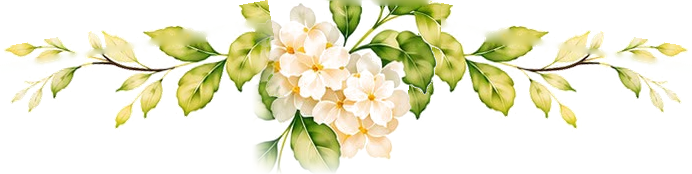
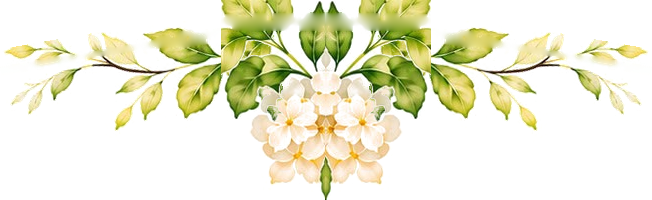
feat: drop language screen, complete home bouquet, simplify RSVP
- Remove the language-choice landing page; visitors go straight to the
  passcode (language buttons still switch at any time).
- Home flower: rebuilt as a balanced, complete bouquet (the invite
  cluster's fuller half mirrored) with the leafy branches either side.
- RSVP: remove Maybe; people with a final answer show only 'Already
  RSVPed' with no choices and no hint of their answer. Older 'maybe'
  rows stay answerable. README updated; links re-stamped.

diff --git a/js/rsvp.js b/js/rsvp.js
@@ -3,12 +3,12 @@
  *  1. Guest types their name (#find-form). The Apps Script looks it up in the
  *     Google Sheet's "Guests" tab and returns their party: { name, members: [...] }.
  *  2. #rsvp-form shows the party name, how many people are in it, and for each
- *     person: Joyfully accepts / Regretfully declines / Maybe, nothing preselected.
- *     Guests answer for whoever they want; anyone left blank isn't sent and can be
- *     answered on a later visit. Everyone gets the choices, whether or not they
- *     already replied; the form doesn't reveal earlier answers. Answers go as
- *     "att:<English full name>" = "yes" | "no" | "maybe", so they match by name, not
- *     position. At least one is needed.
+ *     person: Joyfully accepts / Regretfully declines, nothing preselected. Guests
+ *     answer for whoever they want; anyone left blank isn't sent and can be answered
+ *     on a later visit. Someone who already replied shows "Already RSVPed" with no
+ *     choices, and their answer is never shown. Answers go as
+ *     "att:<English full name>" = "yes" | "no", so they match by name, not position.
+ *     At least one is needed.
  *  3. The server saves everyone picked except people who already have a final yes/no,
  *     and returns those as `skipped`. The message then thanks them for whoever was
  *     saved and names who already RSVPed, e.g. "Thank you! We received the response for
@@ -27,14 +27,16 @@
   const rsvpForm = document.getElementById("rsvp-form");
   const resultBox = document.getElementById("rsvp-result");
   // After a lookup: { name, members: [English names], display: [names in the alphabet the
-  // guest searched with] }. (The server also sends `answered`; the form doesn't show it.)
+  // guest searched with], answered: { English name: "yes"|"no"|"maybe" } }. Only whether
+  // someone answered is used; the answer itself is never shown.
+  // ("maybe" can only come from older replies; it isn't final, so they get choices again.)
   let party = null;
 
   /** Error codes the server can return for a lookup, mapped to message keys. */
   const LOOKUP_ERRORS = { not_found: "rsvp.notFound", multiple: "rsvp.multiple", already_replied: "rsvp.alreadyReplied" };
 
   /** The answers a guest can give, in display order, with their label keys. */
-  const ANSWER_KEYS = { yes: "rsvp.yes", no: "rsvp.no", maybe: "rsvp.maybe" };
+  const ANSWER_KEYS = { yes: "rsvp.yes", no: "rsvp.no" };
 
   function show(form) {
     findForm.hidden = form !== findForm;
@@ -50,9 +52,16 @@
     return span;
   }
 
+  /** True if this person already has a final answer (yes/no) on file. */
+  function alreadyAnswered(name) {
+    const a = (party.answered || {})[name];
+    return a === "yes" || a === "no";
+  }
+
   /**
-   * One fieldset per person: Joyfully accepts / Regretfully declines / Maybe, nothing
-   * preselected, so guests can answer for just the people they want. `name` is the
+   * One fieldset per person: Joyfully accepts / Regretfully declines, nothing preselected,
+   * so guests can answer for just the people they want. Someone who already replied
+   * shows only "Already RSVPed" (no choices, no hint of their answer). `name` is the
    * English name (sent with the answer); the legend shows the name in the guest's alphabet.
    */
   function memberFieldset(name, i) {
@@ -60,6 +69,13 @@
     const legend = document.createElement("legend");
     legend.textContent = (party.display || [])[i] || name;
     fieldset.append(legend);
+    if (alreadyAnswered(name)) {
+      const note = document.createElement("p");
+      note.className = "muted";
+      note.append(label("rsvp.alreadyRsvped"));
+      fieldset.append(note);
+      return fieldset;
+    }
     Object.entries(ANSWER_KEYS).forEach(([value, key]) => {
       const wrap = document.createElement("label");
       const radio = document.createElement("input");

diff --git a/index.html b/index.html
@@ -31,14 +31,10 @@
   <link rel="preconnect" href="https://fonts.googleapis.com">
   <link rel="preconnect" href="https://fonts.gstatic.com" crossorigin>
   <link href="https://fonts.googleapis.com/css2?family=Cormorant+Garamond:ital,wght@0,400;0,500;0,600;1,400;1,500&family=Great+Vibes&family=Frank+Ruhl+Libre:wght@400;500&family=Marck+Script&display=swap" rel="stylesheet">
-  <link rel="stylesheet" href="css/style.css?v=9735582f">
+  <link rel="stylesheet" href="css/style.css?v=6f05be68">
 </head>
-<!--
-  "choose-lang" shows the language screen first; app.js removes it once a language
-  has been chosen (or was chosen on an earlier visit).
-  "locked" hides the site until the passcode is entered (js/gate.js).
--->
-<body class="choose-lang locked">
+<!-- "locked" hides the site until the passcode is entered (js/gate.js). -->
+<body class="locked">
   <header class="site-header">
     <div class="lang-switch" role="group" aria-label="Language">
       <button type="button" data-lang="en">English</button>
@@ -58,29 +54,6 @@
       <a href="#todo" data-i18n="nav.todo"></a>
     </nav>
   </header>
-
-  <!--
-    Language screen, shown first while the body has class "choose-lang".
-    Written in all three languages, since no language has been picked yet.
-  -->
-  <section id="lang-picker" class="lang-picker" aria-labelledby="lang-picker-title">
-    <img class="sprig" src="images/flower.png" alt="" width="692" height="174">
-    <h2 id="lang-picker-title" class="lang-picker-welcome">
-      <span lang="en">Welcome</span>
-      <span lang="he" dir="rtl">ברוכים הבאים</span>
-      <span lang="ru">Добро пожаловать</span>
-    </h2>
-    <p class="lang-picker-ask">
-      <span lang="en">Please choose a language</span>
-      <span lang="he" dir="rtl">נא לבחור שפה</span>
-      <span lang="ru">Пожалуйста, выберите язык</span>
-    </p>
-    <div class="lang-picker-buttons">
-      <button type="button" class="btn" data-pick-lang="en" lang="en">English</button>
-      <button type="button" class="btn" data-pick-lang="he" lang="he">עברית</button>
-      <button type="button" class="btn" data-pick-lang="ru" lang="ru">Русский</button>
-    </div>
-  </section>
 
   <!-- Passcode screen, shown while the body has class "locked". -->
   <section id="gate" class="gate">
@@ -102,7 +75,7 @@
       <p class="eyebrow" data-i18n="home.eyebrow"></p>
       <p class="eyebrow eyebrow-sub" data-i18n="home.eyebrowSub"></p>
       <!-- Horizontal garland built from the Save the Date's corner art: flowers centred, leafy branches either side. -->
-      <img class="sprig" src="images/flower.png" alt="" width="692" height="174">
+      <img class="sprig" src="images/flower.png" alt="" width="652" height="200">
       <p class="date-line" data-i18n="home.date"></p>
       <p class="venue-line" data-i18n="home.venue"></p>
 
@@ -244,11 +217,11 @@
   </footer>
 
   <script src="js/config.js?v=8f9a2d6b"></script>
-  <script src="js/lang/en.js?v=160fa520"></script>
-  <script src="js/lang/he.js?v=80d46590"></script>
-  <script src="js/lang/ru.js?v=723e1b14"></script>
-  <script src="js/app.js?v=556d0120"></script>
+  <script src="js/lang/en.js?v=8ec76602"></script>
+  <script src="js/lang/he.js?v=85e45419"></script>
+  <script src="js/lang/ru.js?v=50e48743"></script>
+  <script src="js/app.js?v=94acb03d"></script>
   <script src="js/gate.js?v=3899f6ee"></script>
-  <script src="js/rsvp.js?v=a6db0ee4"></script>
+  <script src="js/rsvp.js?v=28f3c522"></script>
 </body>
 </html>

diff --git a/js/app.js b/js/app.js
@@ -33,8 +33,7 @@
 
   /**
    * Shows the site in `code` ("en" | "he" | "ru"). `remember` saves it as the guest's
-   * choice; the first-load default is not saved, so the language screen still appears
-   * until the guest actually picks a language.
+   * choice (the language buttons); the first-load default isn't saved.
    */
   function setLang(code, remember) {
     if (!LANGS[code]) code = config.DEFAULT_LANG;
@@ -52,12 +51,6 @@
     try { localStorage.setItem(LANG_KEY, code); } catch (e) { /* storage blocked: language just won't be remembered */ }
   }
 
-  /** Language screen: picking a language applies and remembers it, then reveals the passcode screen (or the site). */
-  function pickLang(code) {
-    setLang(code, true);
-    document.body.classList.remove("choose-lang");
-    window.scrollTo(0, 0);
-  }
 
   /** Q&A list: each item is { q, a } in the language file. */
   function renderFaq() {
@@ -182,7 +175,6 @@
   });
 
   document.querySelectorAll("[data-lang]").forEach((b) => b.addEventListener("click", () => setLang(b.dataset.lang, true)));
-  document.querySelectorAll("[data-pick-lang]").forEach((b) => b.addEventListener("click", () => pickLang(b.dataset.pickLang)));
 
   document.querySelector(".menu-toggle").addEventListener("click", (e) => {
     const nav = document.getElementById("site-nav");
@@ -193,10 +185,7 @@
   document.getElementById("diet-form").addEventListener("submit", submitDiet);
   window.addEventListener("hashchange", showTab);
 
-  // A language chosen on an earlier visit skips the language screen.
-  const chosen = savedLang();
-  setLang(chosen || config.DEFAULT_LANG, false);
-  if (chosen) document.body.classList.remove("choose-lang");
+  setLang(savedLang() || config.DEFAULT_LANG, false);
   showTab();
   tickCountdown();
   setInterval(tickCountdown, 1000);

diff --git a/css/style.css b/css/style.css
@@ -108,23 +108,6 @@ body:not(.locked) .gate { display: none; }
 /* Registry: centred text with the Zola button underneath. */
 .card.registry-card { text-align: center; } /* ".card.registry-card" outranks the general .card text-align */
 
-/* ---------- Language screen (shown first; app.js removes body.choose-lang) ---------- */
-/* While choosing, show only the header names and this screen. */
-body.choose-lang .gate, body.choose-lang main, body.choose-lang .site-nav,
-body.choose-lang .menu-toggle, body.choose-lang .site-footer,
-body.choose-lang .lang-switch, body.choose-lang .header-meta { display: none; }
-body:not(.choose-lang) .lang-picker { display: none; }
-.lang-picker { max-width: 560px; margin: 1.5rem auto 4rem; padding: 0 1rem; text-align: center; }
-.lang-picker-welcome { display: grid; gap: 0.2rem; margin: 0.5rem 0 1rem; text-transform: none; letter-spacing: 0.08em; }
-.lang-picker-welcome span:first-child { font-size: 2rem; }
-.lang-picker-welcome span { font-size: 1.5rem; }
-.lang-picker-welcome [lang="he"] { font-family: "Frank Ruhl Libre", serif; letter-spacing: normal; }
-.lang-picker-ask { display: grid; gap: 0.1rem; color: var(--muted); font-style: italic; margin: 0 0 1.5rem; }
-.lang-picker-ask [lang="he"] { font-family: "Frank Ruhl Libre", serif; }
-.lang-picker-buttons { display: grid; gap: 0.8rem; max-width: 280px; margin: 0 auto; }
-.lang-picker-buttons .btn { width: 100%; text-transform: none; letter-spacing: 0.06em; font-size: 1.25rem; }
-.lang-picker-buttons [lang="he"] { font-family: "Frank Ruhl Libre", serif; letter-spacing: normal; }
-
 /* ---------- Sections ---------- */
 main { max-width: 760px; margin: 0 auto; padding: 1.5rem 1rem 3rem; }
 /* Home tab text one weight step heavier (400 -> 500, about 25%). Script fonts have one weight and are unaffected. */

diff --git a/js/lang/ru.js b/js/lang/ru.js
@@ -53,7 +53,7 @@ window.LANG.ru = {
     email: "Эл. почта (необязательно)",
     yes: "С радостью приду",
     no: "К сожалению, не смогу",
-    maybe: "Возможно",
+    alreadyRsvped: "Уже ответил(а)",
     message: "Пара слов для молодожёнов (необязательно)",
     submit: "Отправить",
   },

diff --git a/js/lang/he.js b/js/lang/he.js
@@ -53,7 +53,7 @@ window.LANG.he = {
     email: "אימייל (לא חובה)",
     yes: "מגיע/ה בשמחה",
     no: "לצערי לא אוכל להגיע",
-    maybe: "אולי",
+    alreadyRsvped: "כבר אישר/ה הגעה",
     message: "מילה לזוג (לא חובה)",
     submit: "שליחת אישור",
   },

diff --git a/js/lang/en.js b/js/lang/en.js
@@ -54,7 +54,7 @@ window.LANG.en = {
     email: "Email (optional)",
     yes: "Joyfully accepts",
     no: "Regretfully declines",
-    maybe: "Maybe",
+    alreadyRsvped: "Already RSVPed",
     message: "A note for the couple (optional)",
     submit: "Send RSVP",
   },

diff --git a/README.md b/README.md
@@ -51,14 +51,6 @@ Save the photos with these exact names, and they replace the placeholders:
 
 The venue picture on the Travel tab uses `images/save-the-date.jpg`.
 
-## Language screen
-
-On a guest's first visit, the site opens on a welcome screen, written in all
-three languages, where they choose English, Hebrew or Russian. The passcode
-screen and the site then appear in that language. The choice is remembered in
-the browser, so later visits skip this screen. The language buttons at the
-top of the site still switch languages at any time.
-
 ## Passcode
 
 Guests must type the passcode (`Y&S2027`, not case-sensitive) before the
@@ -99,30 +91,26 @@ Make a tab named exactly **Guests**, with these four columns in row 1:
 - If two parties have someone with the same name, that guest is asked to
   contact you.
 
-RSVPs land in an **RSVP** tab with one row per person, marked `yes`, `no` or
-`maybe`. A party doesn't have to answer for everyone at the same time. Each
-person can be marked Joyfully accepts, Regretfully declines or Maybe, with
-nothing preselected. Anyone left blank isn't saved and can be answered on
-another visit.
+RSVPs land in an **RSVP** tab with one row per person, marked `yes` or `no`.
+A party doesn't have to answer for everyone at the same time. Each person can
+be marked Joyfully accepts or Regretfully declines, with nothing preselected.
+Anyone left blank isn't saved and can be answered on another visit.
 
-- **Everyone in the party always gets the three choices.** The form doesn't
-  show earlier answers.
+- **Someone who already replied** shows "Already RSVPed" on the form, with no
+  choices. Their answer is never shown on the site.
+- **If a reply still includes someone who already RSVPed** (for example, the
+  form was open on two phones), that person keeps their earlier answer, and
+  everyone else in the reply is saved. The site says, for example, "Thank
+  you! We received the response for Hillel Weber. Noa Weber already RSVPed.
+  If you need to make a change, please reach out to Yael or Sam."
 - **After sending, the page goes back to the top of the home tab** and shows
-  the result in a box there. Answering again means clicking RSVP and searching
-  again. If sending fails (for example, no connection), the form stays open
-  with the choices so the guest can retry.
-- **Yes and no are final.** If a reply includes someone who already said yes
-  or no, that person keeps their earlier answer, and everyone else in the reply
-  is saved. The site says, for example, "Thank you! We received the response
-  for Hillel Weber. Noa Weber already RSVPed. If you need to make a change,
-  please reach out to Yael or Sam." Several names are listed as "A, B and C".
-  If everyone in the reply had already RSVPed, nothing changes, and only the
-  "already RSVPed" part is shown.
-- **Maybe can be changed.** A new answer updates that person's existing row,
-  so each person keeps one row.
+  the result in a box there. If sending fails (for example, no connection),
+  the form stays open with the choices so the guest can retry.
 - **Answers follow the person, not the party name.** Renaming a party, or
   reordering the Guests tab, doesn't lose or mix up anyone's answer. Renaming a
   *person* (First/Last Name) does disconnect them from their earlier row.
+- Older `maybe` rows (from before Maybe was removed) aren't final, so those
+  people can still answer on the site.
 
 When a party where everyone has a final answer searches again, the site asks
 them to contact you. Repeat attempts email the Google account that owns the
